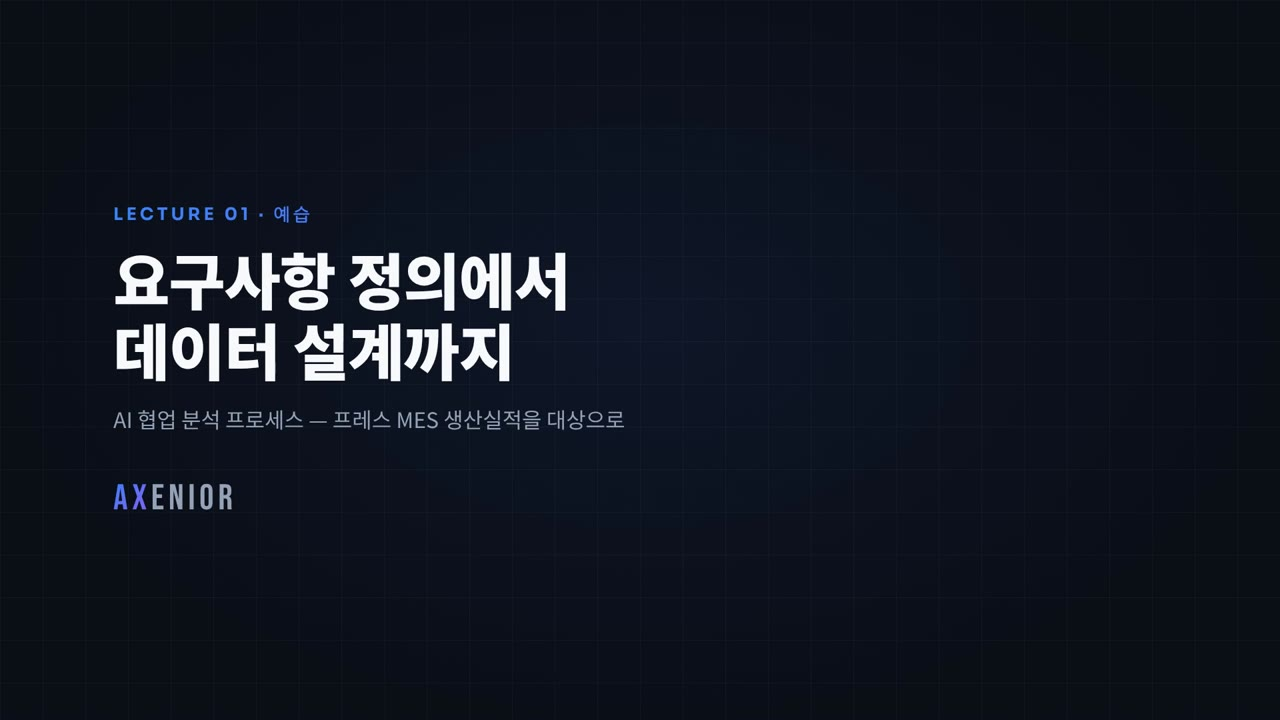
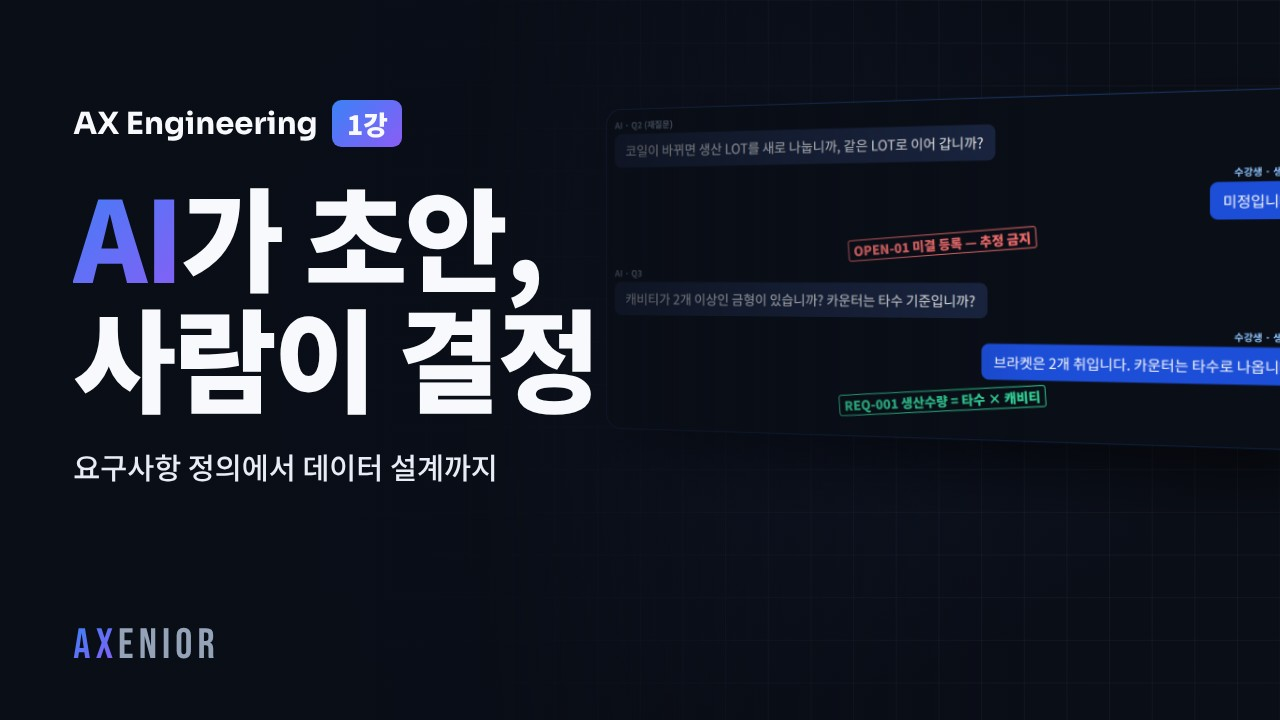
feat: /course 에 1강 영상 재생목록 연결, 썸네일 교체(2강은 검토 중이라 준비 중)
Claude-Session: https://claude.ai/code/session_0178zDaaoBDQ6BnUyMq2y4wV

diff --git a/components/sections/Course.tsx b/components/sections/Course.tsx
@@ -4,13 +4,13 @@ import { ScrollFade } from '@/components/ScrollFade'
 
 // ⭐ 강의 영상은 재생목록으로 embed 한다(`Product.tsx` 와 같은 방식). 새 강의는 재생목록에만 추가하면 이 코드는 그대로 동작한다.
 // ⚠ 재생목록 ID 가 비어 있으면 영상 대신 썸네일과 「영상 준비 중」을 보인다.
-const COURSE_PLAYLIST = ''
+const COURSE_PLAYLIST = 'PLU9AQn-6ZTjk'
 const INQUIRY_MAILTO = 'mailto:contact@axenior.kr?subject=' + encodeURIComponent('[교육 과정 문의] AX Engineering')
 
 /** 커리큘럼. `ready` 는 강의 영상이 재생목록에 있는 강의다. */
 const LECTURES: { no: string; title: string; desc: string; ready?: boolean }[] = [
   { no: '01', title: '요구사항 정의에서 데이터 설계까지', desc: '요구사항 정의서 · 프로세스 정의 · 화면 설계 · 테이블 정의를 AI와 함께 작성', ready: true },
-  { no: '02', title: '운영 환경 구성', desc: '빈 서버에서 SSH 키 인증 · 방화벽 · 도메인 · HTTPS 공개까지', ready: true },
+  { no: '02', title: '운영 환경 구성', desc: '빈 서버에서 SSH 키 인증 · 방화벽 · 도메인 · HTTPS 공개까지' },
   { no: '03', title: '데이터베이스 구축', desc: '테이블 정의서를 실제 DB 로 — 키 · 관계 · 코드 체계' },
   { no: '04', title: 'API · 로그인', desc: '업무 규칙을 API 검증으로 구현하고 권한을 분리' },
   { no: '05', title: '화면 구현', desc: '화면 설계서대로 조회 · 등록 화면 구현' },
